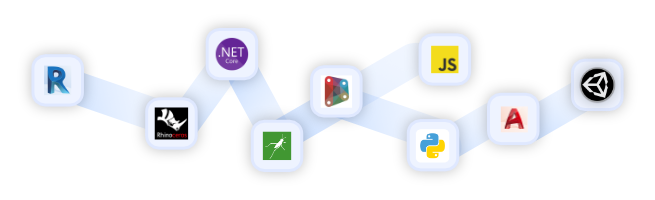
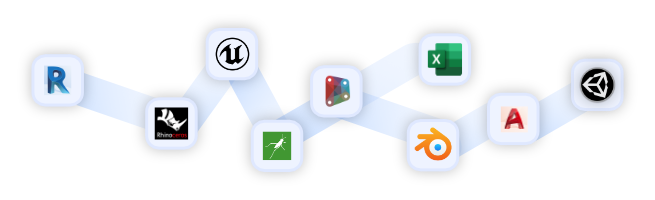
feat(frontend): adds dev onboarding

diff --git a/packages/frontend/src/components/GettingStartedSteps.vue b/packages/frontend/src/components/GettingStartedSteps.vue
@@ -2,6 +2,7 @@
   <div>
     <v-card class="elevation-10 rounded-lg">
       <v-btn
+        v-if="onboarding < 3"
         small
         text
         class="white--grey"
@@ -23,21 +24,90 @@
               👋 Welcome to Speckle!
             </v-card-title>
             <v-card-subtitle class="subtitle-1 justify-center mb-5">
-              The Open Data Infrastructure for your Digital Twin, BIM model and for the Built
-              Environment.
+              The Open Data Infrastructure for the Built Environment.
             </v-card-subtitle>
             <v-card-text class="body-1 text--primary">
               <p>
                 Engineers, designers, hackers and entire organizations rely on us for
                 interoperability, automation and collaboration to deliver better buildings, faster.
+                <br />
+                Please select your role:
               </p>
-              <br />
-              <p><strong>Let us give you a quick tour! 🙋♂</strong></p>
+            </v-card-text>
+            <v-container fluid>
+              <v-row dense>
+                <v-col cols="5" offset="1">
+                  <v-hover>
+                    <v-card
+                      slot-scope="{ hover }"
+                      height="100%"
+                      :class="`pa-5 elevation-${hover ? 10 : 10}`"
+                      @click="nextUser"
+                    >
+                      <h1>👷♀</h1>
+                      <v-card-title class="justify-center">AEC Person</v-card-title>
+                      <v-card-subtitle class="justify-center">
+                        Architect, engineer, BIM/project manager...
+                      </v-card-subtitle>
+                    </v-card>
+                  </v-hover>
+                </v-col>
+                <v-col cols="5" offset="0">
+                  <v-hover>
+                    <v-card
+                      slot-scope="{ hover }"
+                      height="100%"
+                      :class="`pa-5 elevation-${hover ? 10 : 10}`"
+                      @click="nextDev"
+                    >
+                      <h1>👩💻</h1>
+                      <v-card-title class="justify-center">AEC Developer</v-card-title>
+                      <v-card-subtitle class="justify-center">
+                        Software engineer, computational designer, hacker
+                      </v-card-subtitle>
+                    </v-card>
+                  </v-hover>
+                </v-col>
+              </v-row>
+            </v-container>
+            <p class="my-7"><strong>Let us give you a quick tour! 🙋♂</strong></p>
+          </v-card>
+        </v-window-item>
+
+        <v-window-item v-if="isDev">
+          <v-card class="transparent elevation-0 text-center" color="transparent">
+            <v-img
+              class="white--text align-end mb-3"
+              height="200px"
+              src="@/assets/onboarding_connectors_dev.png"
+            ></v-img>
+            <v-card-title class="display-1 justify-center mb-5">🧰 Our toolset</v-card-title>
+            <v-card-subtitle class="subtitle-1 justify-center mb-5">
+              Is here to push the AEC industry forward
+            </v-card-subtitle>
+            <v-card-text class="body-1 text--primary">
+              <p>
+                Use our
+                <b>connectors, SDKs, APIs and tools</b>
+                to get in control of
+                <i>your data.</i>
+                Whether you are writing new integrations, custom workflows or creating brand new
+                apps on top of Speckle, we're here to support you!
+              </p>
+              <p>
+                Get started sending data into Speckle by installing our connectos and setting up
+                your accounts with our
+                <b>Desktop Manager 👇</b>
+              </p>
+              <v-btn elevation="10" class="my-4" rounded color="primary" @click="downloadManager">
+                <v-icon small class="mr-4">mdi-download</v-icon>
+                Install connectors
+              </v-btn>
             </v-card-text>
           </v-card>
         </v-window-item>
 
-        <v-window-item>
+        <v-window-item v-else>
           <v-card class="transparent elevation-0 text-center" color="transparent">
             <v-img
               class="white--text align-end mb-3"
@@ -50,10 +120,14 @@
             </v-card-subtitle>
             <v-card-text class="body-1 text--primary">
               <p>
-                Connectors let you
-                <b>send and receive</b>
-                geometry and BIM data via Speckle. Install all the connectors you need and manage
-                your accounts with our
+                Say goodbye to files! Our
+                <b>connectors</b>
+                let you
+                <b>exchange</b>
+                geometry and BIM data dirctly from the tools you use.
+              </p>
+              <p>
+                Install all the connectors you need and manage your accounts with our
                 <b>Desktop Manager 👇</b>
               </p>
               <v-btn elevation="10" class="my-4" rounded color="primary" @click="downloadManager">
@@ -93,7 +167,34 @@
           </v-card>
         </v-window-item>
 
-        <v-window-item>
+        <v-window-item v-if="isDev">
+          <v-card class="transparent elevation-0 text-center" color="transparent">
+            <v-img
+              class="white--text align-end mb-3"
+              height="200px"
+              src="@/assets/onboarding_streams.png"
+            ></v-img>
+            <v-card-title class="display-1 justify-center mb-5">
+              🐙 Git & DevOps for AEC
+            </v-card-title>
+            <v-card-subtitle class="subtitle-1 justify-center mb-5">
+              Welcome to the future of the AEC industry!
+            </v-card-subtitle>
+            <v-card-text class="body-1 text--primary">
+              <p>
+                Speckle ships with a
+                <b>version control system,</b>
+                trigger custom workflows and pipelines and never lose anything.
+              </p>
+              <p>
+                Also, Speckle talks
+                <i>data, not files!</i>
+                Store it where you want, and access it when you need 🔓
+              </p>
+            </v-card-text>
+          </v-card>
+        </v-window-item>
+        <v-window-item v-else>
           <v-card class="transparent elevation-0 text-center" color="transparent">
             <v-img
               class="white--text align-end mb-3"
@@ -124,27 +225,58 @@
                 <i>main</i>
                 .
               </p>
-              <!-- <v-btn
-                elevation="10"
-                class="my-4"
-                rounded
-                color="primary"
-                @click="newStreamDialog = true"
-              >
-                <v-icon small class="mr-4">mdi-plus</v-icon>
-                Create Your First Stream
-              </v-btn> -->
             </v-card-text>
           </v-card>
         </v-window-item>
-
-        <v-window-item>
+        <v-window-item v-if="isDev">
           <v-card class="transparent elevation-0 text-center" color="transparent">
-            <!-- <v-img
-              class="white--text align-end mb-3"
-              height="200px"
-              src="@/assets/onboarding_workflow.png"
-            ></v-img> -->
+            <v-card-title class="display-1 justify-center my-5">🏃♀ Start Hacking!</v-card-title>
+            <v-card-subtitle class="subtitle-1 justify-center mb-5">
+              Time to make the most of
+              <b>your</b>
+              data!
+            </v-card-subtitle>
+            <v-card-text class="body-1 text--primary">
+              <p>
+                You can now start developing with Speckle and create your connectors, apps or custom
+                workflows.
+              </p>
+              <p>We have put together a series of resources that you might find useful:</p>
+            </v-card-text>
+            <v-container fluid>
+              <v-row dense>
+                <v-col v-for="(tutorial, i) in tutorialsDev" :key="i" cols="6">
+                  <v-hover>
+                    <v-card
+                      slot-scope="{ hover }"
+                      :class="`elevation-${hover ? 10 : 0}`"
+                      :href="tutorial.link"
+                      target="_blank"
+                    >
+                      <v-img
+                        class="white--text align-end"
+                        height="150"
+                        gradient="to bottom, rgba(36,100,235,.2), rgba(36,100,235,.7)"
+                        :src="require('@/assets/' + tutorial.image)"
+                      >
+                        <v-card-title class="justify-center">
+                          {{ tutorial.title }}
+                        </v-card-title>
+                      </v-img>
+                    </v-card>
+                  </v-hover>
+                </v-col>
+              </v-row>
+            </v-container>
+
+            <v-btn elevation="10" class="my-4" rounded color="primary" @click="finish">
+              <!-- <v-icon small class="mr-4">mdi-download</v-icon> -->
+              Finish & go to the web app
+            </v-btn>
+          </v-card>
+        </v-window-item>
+        <v-window-item v-else>
+          <v-card class="transparent elevation-0 text-center" color="transparent">
             <v-card-title class="display-1 justify-center my-5">🏃♀ Get Started!</v-card-title>
             <v-card-subtitle class="subtitle-1 justify-center mb-5">
               Time to make the most of
@@ -186,12 +318,12 @@
 
             <v-btn elevation="10" class="my-4" rounded color="primary" @click="finish">
               <!-- <v-icon small class="mr-4">mdi-download</v-icon> -->
-              Go to the web app
+              Finish & go to the web app
             </v-btn>
           </v-card>
         </v-window-item>
       </v-window>
-      <v-card-actions class="justify-space-between pb-7">
+      <v-card-actions v-if="onboarding > 0" class="justify-space-between pb-7">
         <v-btn text @click="prev">
           <v-icon>mdi-chevron-left</v-icon>
         </v-btn>
@@ -202,7 +334,7 @@
             </v-btn>
           </v-item>
         </v-item-group>
-        <v-btn text @click="next">
+        <v-btn :disabled="onboarding == 3" text @click="next">
           <v-icon>mdi-chevron-right</v-icon>
         </v-btn>
       </v-card-actions>
@@ -224,6 +356,7 @@ export default {
     newStreamDialog: false,
     hasClickedDownload: false,
     hasClickedAddAccount: 0,
+    isDev: false,
     tutorials: [
       {
         title: 'Create Revit models from Rhino',
@@ -244,6 +377,28 @@ export default {
         title: 'See more in our tutorials portal!',
         image: 'tutorials.png',
         link: 'https://speckle.guide/user/tutorials.html'
+      }
+    ],
+    tutorialsDev: [
+      {
+        title: 'Writing your own connector',
+        image: 'connector-tutorial.png',
+        link: 'https://speckle.guide/dev/connectors-dev.html'
+      },
+      {
+        title: 'Writing your own app',
+        image: 'app-tutorial.png',
+        link: 'https://speckle.guide/dev/apps.html'
+      },
+      {
+        title: 'Using the GraphQL API',
+        image: 'api-tutorial.png',
+        link: 'https://speckle.guide/dev/server-graphql-api.html'
+      },
+      {
+        title: 'See more content and resources in our dev docs!',
+        image: 'tutorials.png',
+        link: 'https://speckle.guide/dev/'
       }
     ]
   }),
@@ -273,6 +428,14 @@ export default {
     next() {
       this.onboarding++
       this.$matomo && this.$matomo.trackPageView(`onboarding/step-${this.onboarding}`)
+    },
+    nextUser() {
+      this.isDev = false
+      this.next()
+    },
+    nextDev() {
+      this.isDev = true
+      this.next()
     },
     downloadManager() {
       this.hasClickedDownload = true
